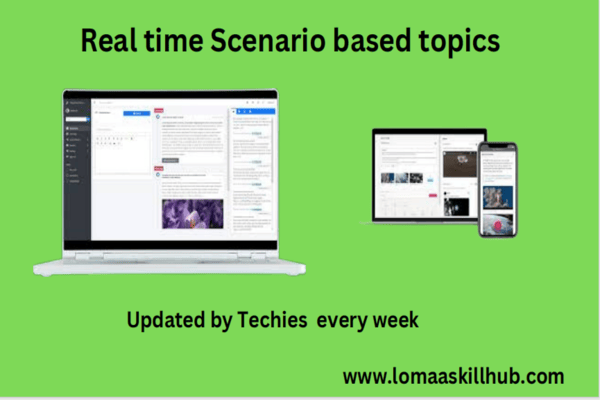
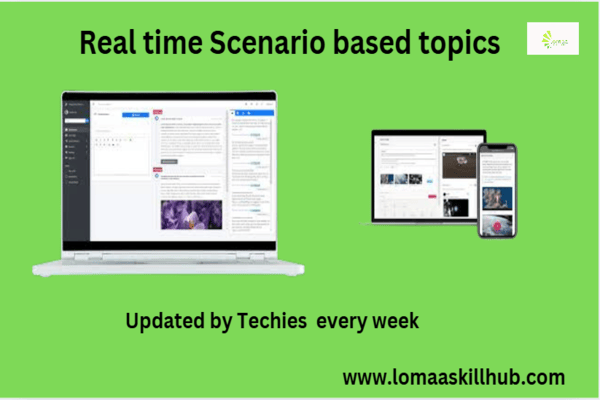
16nov12:38

diff --git a/index.html b/index.html
@@ -44,7 +44,10 @@
                     </button>
 
                     <!-- lOGO TEXT HERE -->
-                    <a href="#" class="navbar-brand">DevOps with Azure </a>
+                     <div style="display: flex;">
+                  <a href=""> <img src="images/lomaa logo.jpg" class="img-responsive"width ="50px" height="50px" alt="" style="margin-top: 20px;"></a> 
+                   <a href="#" class="navbar-brand">DevOps-Azure </a>
+                   </div>
                </div>
 
                <!-- MENU LINKS -->
@@ -352,7 +355,7 @@
                                         <div class="courses-thumb">
                                              <div class="courses-top">
                                                   <div class="courses-image">
-                                                       <img src="images/blog.png" class="img-responsive" alt="">
+                                                       <img src="images/blog1.jpg" class="img-responsive" alt="">
                                                   </div>
                                                    
                                              </div>
@@ -381,18 +384,18 @@
 
                     <div class="col-md-12 col-sm-12">
                          <div class="section-title">
-                              <h2>Student Reviews <small>from around the world</small></h2>
+                              <h2>Student Reviews <small>After Course completion</small></h2>
                          </div>
 
                          <div class="owl-carousel owl-theme owl-client">
                               <div class="col-md-4 col-sm-4">
                                    <div class="item">
                                         <div class="tst-image">
-                                             <img src="images/tst-image1.jpg" class="img-responsive" alt="">
+                                             <img src="images/lokesh.jpg" class="img-responsive" alt="">
                                         </div>
                                         <div class="tst-author">
-                                             <h4>Jackson</h4>
-                                             <span>Shopify Developer</span>
+                                             <h4>Lokesh</h4>
+                                             <span>Adarsh College</span>
                                         </div>
                                         <p>You really do help young creative minds to get quality education and professional job search assistance. I’d recommend it to everyone!</p>
                                         <div class="tst-rating">
@@ -408,17 +411,18 @@
                               <div class="col-md-4 col-sm-4">
                                    <div class="item">
                                         <div class="tst-image">
-                                             <img src="images/tst-image2.jpg" class="img-responsive" alt="">
+                                             <img src="images/pavan.jpg" class="img-responsive" alt="">
                                         </div>
                                         <div class="tst-author">
-                                             <h4>Camila</h4>
-                                             <span>Marketing Manager</span>
+                                             <h4>Pavan</h4>
+                                             <span>Narayana College</span>
                                         </div>
                                         <p>Trying something new is exciting! Thanks for the amazing law course and the great teacher who was able to make it interesting.</p>
                                         <div class="tst-rating">
                                              <i class="fa fa-star"></i>
                                              <i class="fa fa-star"></i>
                                              <i class="fa fa-star"></i>
+                                             <i class="fa fa-star"></i>
                                         </div>
                                    </div>
                               </div>
@@ -426,32 +430,32 @@
                               <div class="col-md-4 col-sm-4">
                                    <div class="item">
                                         <div class="tst-image">
-                                             <img src="images/tst-image3.jpg" class="img-responsive" alt="">
+                                             <img src="images/sai.jpg" class="img-responsive" alt="">
                                         </div>
                                         <div class="tst-author">
-                                             <h4>Barbie</h4>
-                                             <span>Art Director</span>
+                                             <h4>Sai</h4>
+                                             <span>CVN College</span>
                                         </div>
-                                        <p>Donec erat libero, blandit vitae arcu eu, lacinia placerat justo. Sed sollicitudin quis felis vitae hendrerit.</p>
+                                        <p> I'm so thankful for the outstanding course and the technical team who made the subject so captivating.</p>
                                         <div class="tst-rating">
                                              <i class="fa fa-star"></i>
                                              <i class="fa fa-star"></i>
                                              <i class="fa fa-star"></i>
                                              <i class="fa fa-star"></i>
-                                        </div>
+                                        </div><br>
                                    </div>
                               </div>
 
                               <div class="col-md-4 col-sm-4">
                                    <div class="item">
                                         <div class="tst-image">
-                                             <img src="images/tst-image4.jpg" class="img-responsive" alt="">
+                                             <img src="images/divakar.jpg" class="img-responsive" alt="">
                                         </div>
                                         <div class="tst-author">
-                                             <h4>Andrio</h4>
-                                             <span>Web Developer</span>
+                                             <h4>Divakar</h4>
+                                             <span>Andhra University</span>
                                         </div>
-                                        <p>Nam eget mi eu ante faucibus viverra nec sed magna. Vivamus viverra sapien ex, elementum varius ex sagittis vel.</p>
+                                        <p> The way you support young, innovative minds with both a solid education and expert job search help is amazing.</p>
                                         <div class="tst-rating">
                                              <i class="fa fa-star"></i>
                                              <i class="fa fa-star"></i>
@@ -496,7 +500,7 @@
 
                     <div class="col-md-6 col-sm-12">
                          <div class="contact-image">
-                              <img src="images/contact-image.jpg" class="img-responsive" alt="Smiling Two Girls">
+                              <img src="images/loggi.png" class="img-responsive" alt="Smiling Two Girls" height="40%" style="margin-top: 15%;">
                          </div>
                     </div>
 
@@ -538,10 +542,10 @@
       
                   <!-- Copyright Section -->
                   <div class="col-md-12 col-sm-12">
-                      <div class="copyright-text">
-                          <p><b>Copyright © 2024 Company Name | Design: <a rel="nofollow" href="https://www.lomaait.com">Lomaa </b></a></p>
-                      </div>
-                  </div>
+                    <div class="copyright-text">
+                        <p><b>Copyright © 2024 Company Name | Design: <a rel="nofollow" href="https://www.lomaait.com">Lomaa </b></a></p>
+                    </div>
+                </div>
               </div>
           </div>
       </footer>

diff --git a/css/templatemo-style.css b/css/templatemo-style.css
@@ -752,7 +752,7 @@ https://templatemo.com/tm-516-known
   -----------------------------------------*/
 
   footer {
-    background-color: #2bbf0dd1; /* Light background color for better visibility */
+    background-color: #2bbf0dba; /* Light background color for better visibility */
     color: #f8f8f8; /* Light grey text for good contrast */
     padding: 40px 0;
   }
